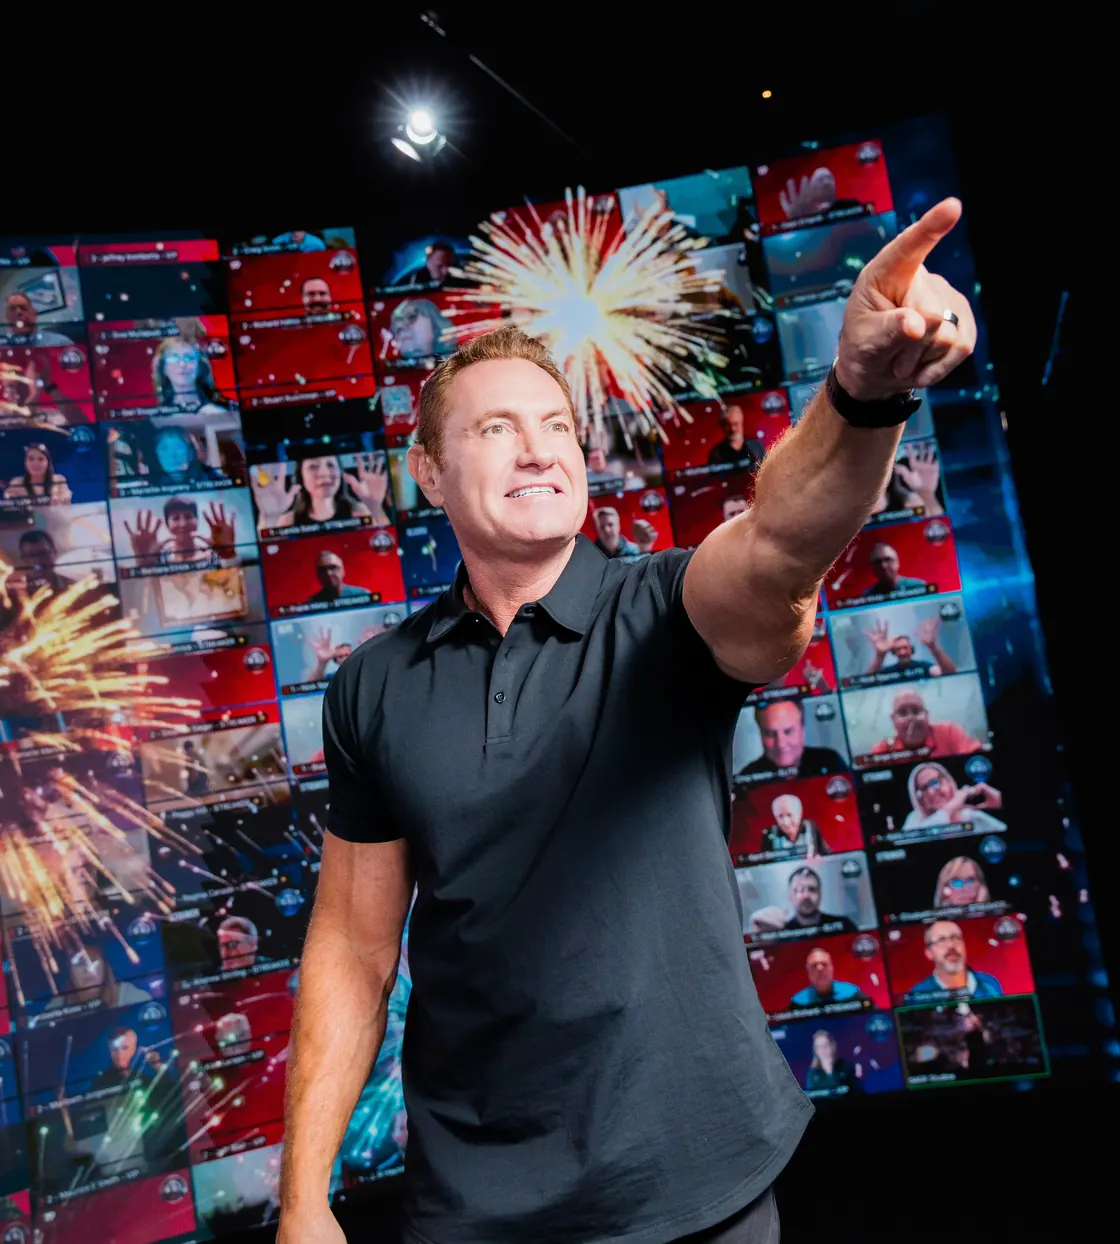
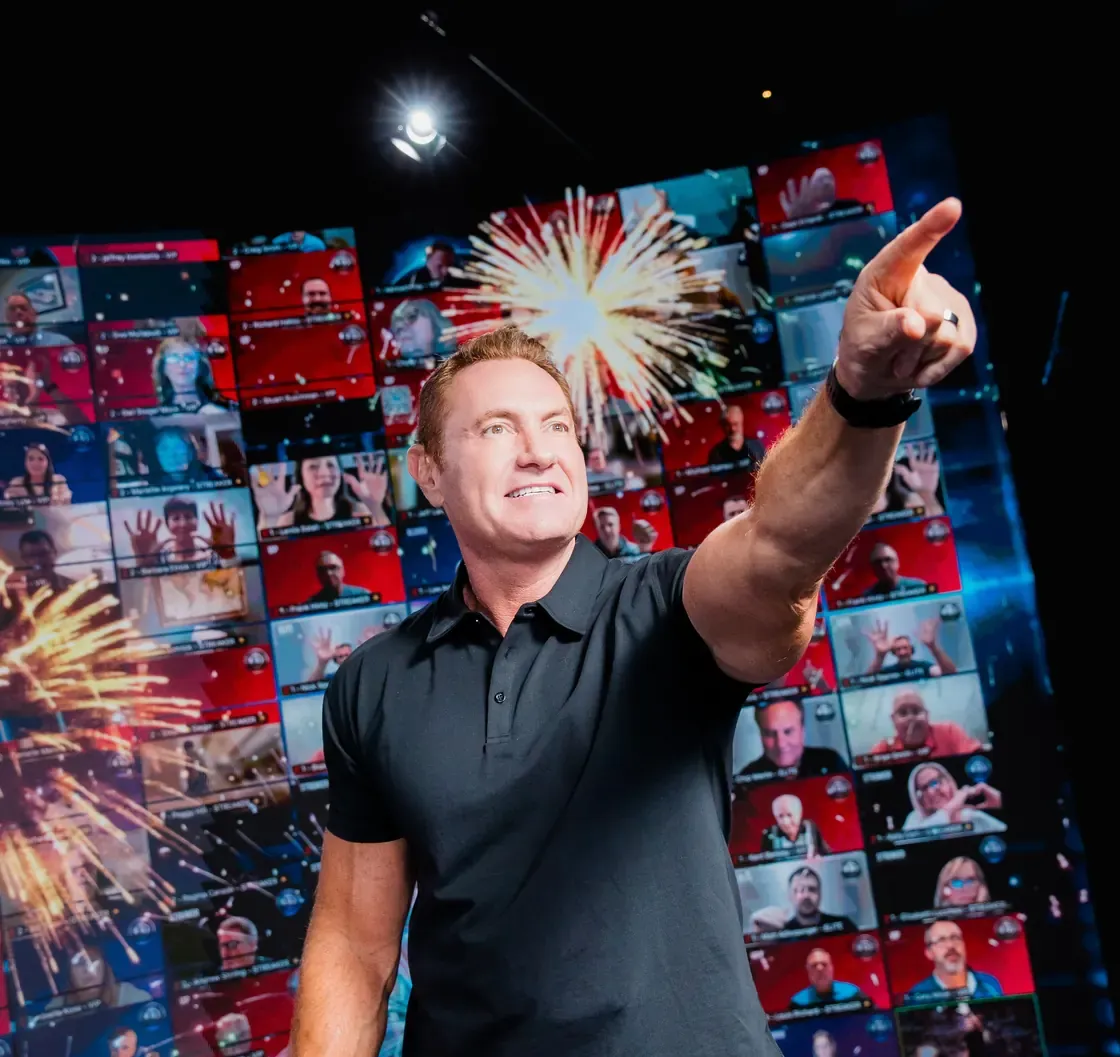
Hero photo cropped and anchored on mobile, wash behind the clock
Cropped the bottom 15% off both hero sources rather than faking it in CSS
(1244 to 1057, 844 to 717), re-encoded at q80 so the file lands near the
original weight instead of the 168K the first pass produced. Markup
height updated to match.

Mobile: the photo is anchored to the bottom edge of the hero there too,
full bleed past the container padding and flush against the countdown,
rather than floating mid-section with a gap under it. Done with margins,
not a transform, because the reduced-motion block resets transform on
this element.

Countdown gets its own wash. A flat grey stripe between two washed
sections read as a gap in the page rather than a part of it.

Spacing after the merge: the eyebrow was sitting on the bottom edge of
the video frame, so the second half of the section now declares the
breathing room the section break used to provide. .section-sub was styled
only under .conf-light, which that block no longer carries, so it is
restated for the dark ground.

diff --git a/bmc-confirmation.html b/bmc-confirmation.html
@@ -227,15 +227,21 @@
 .conf-hero-cta .secondary-link { animation: none; opacity: 1; transform: none; }
 
 @media (max-width: 900px) {
-  .conf-hero { padding: 104px 0 76px; min-height: 0; }
+  /* No bottom padding: the photo is anchored to the section's bottom edge
+     here too, not floated in the middle of it with a gap underneath. */
+  .conf-hero { padding: 104px 0 0; min-height: 0; }
   /* Text first: the job of this page is to confirm before it impresses. */
   .conf-hero-grid { grid-template-columns: 1fr; gap: 44px; }
   .conf-hero-shot {
-    position: relative; inset: auto; width: 100%; order: 2;
-    border-radius: var(--radius);
+    position: relative; inset: auto; order: 2;
+    border-radius: 0; margin-bottom: 0;
+    /* Full bleed past the container's 48px of side padding. Done with
+       margins rather than a transform, because the reduced-motion block
+       below resets transform on this element. */
+    width: calc(100% + 96px); margin-left: -48px;
+    -webkit-mask-image: none; mask-image: none;
   }
   .conf-hero-shot img { height: auto; }
-  .conf-hero-shot { -webkit-mask-image: none; mask-image: none; }
   /* Centred on a phone. With the photo moved below the copy there is
      nothing on the left for a left rail to align to, so ragged-left text
      reads as though it slid off the edge. */
@@ -244,6 +250,9 @@
   .conf-hero-sub { margin-left: auto; margin-right: auto; }
   .conf-hero-cta { align-items: center; }
   .conf-hero-cta .btn-primary { white-space: normal; text-align: center; line-height: 1.6; letter-spacing: 0.18em; }
+}
+@media (max-width: 720px) {
+  .conf-hero-shot { width: calc(100% + 48px); margin-left: -24px; }
   /* bmc.css turns .m-br on at 880px; the hero breaks at 900px, so the
      hard break is switched on here to match this section's breakpoint. */
   .conf-hero-headline .m-br { display: inline; }
@@ -260,7 +269,20 @@
    Replaces the old orange HubSpot counter strip. Same job, brand palette:
    silver label, cyan digits, hairline dividers, 4px radius.
    --------------------------------------------------------------------- */
-.conf-count { background: var(--ink); border-top: 1px solid var(--rule); border-bottom: 1px solid var(--rule); padding: 40px 0; }
+.conf-count {
+  background: var(--ink); border-top: 1px solid var(--rule); border-bottom: 1px solid var(--rule);
+  padding: 40px 0; position: relative; overflow: hidden;
+}
+/* A wash behind the clock. The band sat as a flat grey stripe between two
+   washed sections, which read as a gap in the page rather than a part of
+   it. Centred and wide, so the glow sits behind the numbers. */
+.conf-count::before {
+  content: ""; position: absolute; inset: 0; z-index: 0; pointer-events: none;
+  background:
+    radial-gradient(ellipse 52% 150% at 50% 52%, rgba(var(--bmc-purple-rgb), 0.30), transparent 72%),
+    radial-gradient(ellipse 34% 120% at 80% 60%, rgba(var(--bmc-magenta-rgb), 0.13), transparent 74%);
+}
+.conf-count > .container { position: relative; z-index: 1; }
 .conf-count-inner { display: flex; align-items: center; justify-content: center; gap: 44px; flex-wrap: wrap; }
 .conf-count-label {
   font-family: 'Inter', sans-serif; font-weight: 500; font-size: 11px;
@@ -373,6 +395,20 @@
   .vsl-frame .vsl-play { animation: none; transform: translate(-50%, -50%); }
 }
 .vsl-frame .vsl-play svg { width: 32%; height: 32%; margin-left: 6%; }
+
+
+/* The video and the three things share a section now, so the breathing
+   room a section break used to provide has to be declared. Without it the
+   eyebrow sits on the bottom edge of the video frame.
+   .section-sub was styled only under .conf-light, which this block no
+   longer carries, so it is restated for the dark ground. */
+.conf-next { margin-top: 116px; }
+#next .section-sub {
+  font-family: 'Inter', sans-serif; font-weight: 400;
+  font-size: clamp(16px, 1.3vw, 18px); line-height: 1.65;
+  color: var(--silver); max-width: 720px; margin-top: 22px;
+}
+@media (max-width: 880px) { .conf-next { margin-top: 68px; } }
 
 /* A personal word: the section had an eyebrow and then a video, with no
    headline between them. */
@@ -558,7 +594,7 @@
              srcset="bmc-hero-dh-760.webp 760w, bmc-hero-dh-1120.webp 1120w"
              sizes="(max-width: 900px) 92vw, 560px"
              alt="Darren Hardy on stage at Business Master Class, hundreds of members live on the screen behind him"
-             width="1120" height="1244" fetchpriority="high" decoding="async" />
+             width="1120" height="1057" fetchpriority="high" decoding="async" />
       </figure>
 
       <div class="conf-hero-inner">
